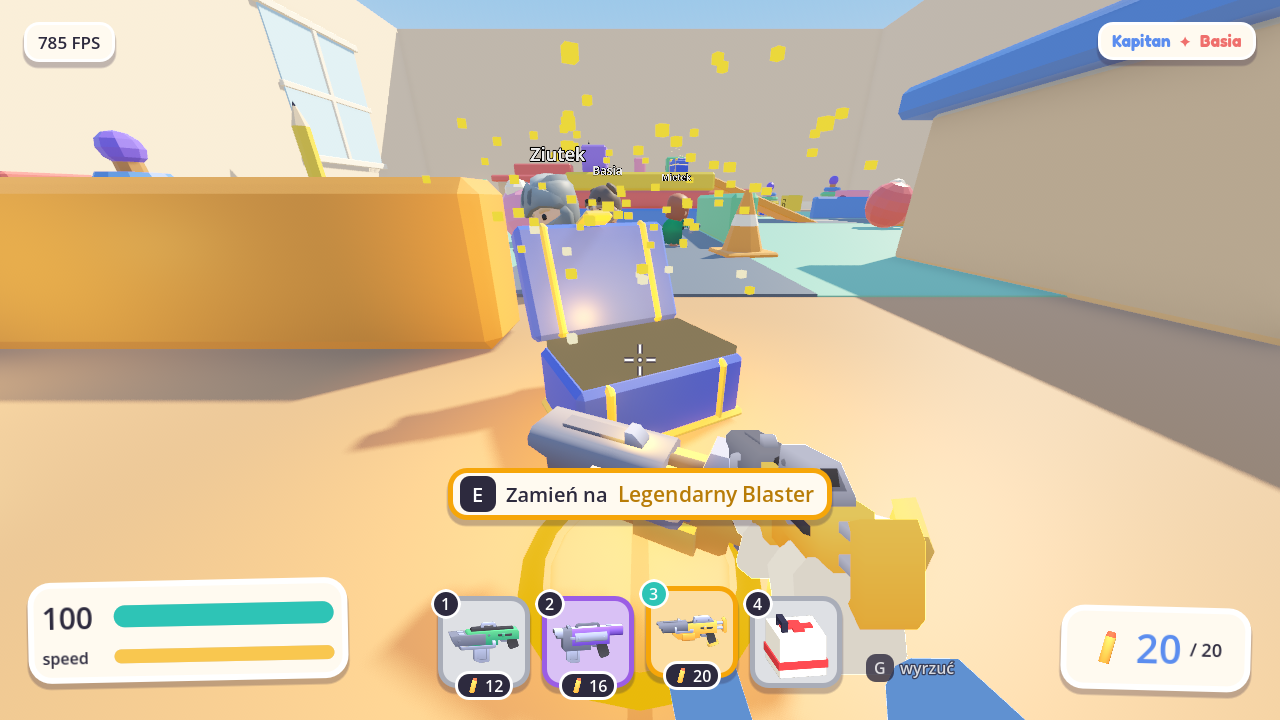
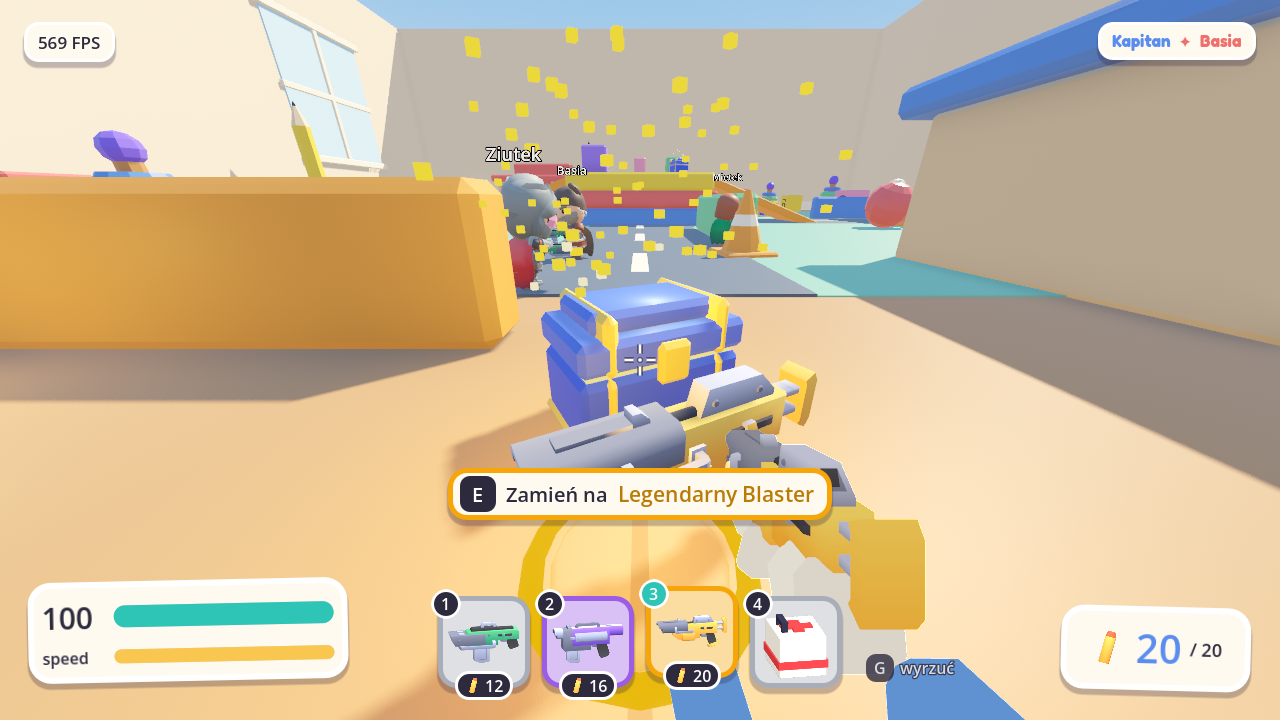
Add aiming on the right mouse button
Holding the right button raises the weapon to the center of the screen,
zooms the view and lowers recoil, at the cost of slower movement and no
sprint. Reloading pauses it. Better weapons zoom further, and aiming has
its own sensitivity setting, matched to the zoom by default.

diff --git a/README.md b/README.md
@@ -4,9 +4,9 @@ Kolorowa strzelanka FPS multiplayer, w której gracze walczą jako małe figurki
 
 ![Rozgrywka](docs/screenshots/gameplay.png)
 
-| Skrzynka | Bronie na ziemi |
-|---|---|
-| ![Otwieranie skrzynki](docs/screenshots/chest_open.png) | ![Bronie na ziemi](docs/screenshots/loot.png) |
+| Skrzynka | Bronie na ziemi | Celowanie |
+|---|---|---|
+| ![Otwieranie skrzynki](docs/screenshots/chest_open.png) | ![Bronie na ziemi](docs/screenshots/loot.png) | ![Celowanie](docs/screenshots/aim.png) |
 
 | Menu | Wyniki | Obrażenia |
 |---|---|---|
@@ -20,6 +20,7 @@ Kolorowa strzelanka FPS multiplayer, w której gracze walczą jako małe figurki
 - **Skrzynki z łupem:** rozsiane po mapie, otwierane przez przytrzymanie klawisza. Losują broń z szansą 70% na zwykłą, 25% na epicką i 5% na legendarną, a po minucie wracają.
 - **Podnoszenie i wyrzucanie:** bronie leżą na ziemi, a po śmierci wypadają dla innych.
 - **Apteczki:** wypadają ze skrzynek obok broni, a przytrzymanie strzału przez 2,5 s leczy o 50 punktów.
+- **Celowanie:** prawy przycisk przybliża widok i zmniejsza odrzut, ale spowalnia ruch. Lepsza broń ma mocniejsze przybliżenie.
 - **Sprint z limitem:** pasek zużywa się w biegu i odnawia po chwili odpoczynku.
 - **Pokój zabawek:** mapa z książek, klocków, ołówków i piłek, animowane postacie i interfejs w stylu naklejek.
 - **Czytelna walka:** kierunek trafienia, znaczniki trafień, lista zabójstw i tabela wyników z pingiem.
@@ -40,6 +41,7 @@ W menu wpisz adres serwera i kliknij **Dołącz** albo wybierz **Hostuj na tym k
 | **WASD** | Ruch |
 | **Mysz** | Celowanie |
 | **LPM** | Strzał, przytrzymanie używa apteczki |
+| **PPM** | Celowanie (przytrzymaj) |
 | **R** | Przeładowanie |
 | **Shift** | Sprint |
 | **Spacja** | Skok |

diff --git a/docs/DEVELOPMENT.md b/docs/DEVELOPMENT.md
@@ -34,7 +34,7 @@ Po zmianie sieci podnieś `PROTOCOL_VERSION` w `scripts/core/net.gd`.
 
 ## Testy
 
-Testy to skrypty w `tools/`, uruchamiane parametrem `-- --tool=res://tools/NAZWA.gd`: `items_test`, `hitscan_test` (bez okna), `inventory_test`, `pickup_test`, `medkit_test`, `feel_test`, `flow_test`, `chest_test` z `--debug-chests`, `settings_test` z `--settings-path=user://test_settings.cfg` (w oknie). `tools/bot_test.sh`, `tools/hit_test.sh` i `tools/loot_test.sh` i `tools/chest_test.sh` sprawdzają sieć z botami, a `tools/lag_proxy.py` dodaje opóźnienie i utratę pakietów.
+Testy to skrypty w `tools/`, uruchamiane parametrem `-- --tool=res://tools/NAZWA.gd`: `items_test`, `hitscan_test` (bez okna), `inventory_test`, `pickup_test`, `aim_test`, `medkit_test`, `feel_test`, `flow_test`, `chest_test` z `--debug-chests`, `settings_test` z `--settings-path=user://test_settings.cfg` (w oknie). `tools/bot_test.sh`, `tools/hit_test.sh` i `tools/loot_test.sh` i `tools/chest_test.sh` sprawdzają sieć z botami, a `tools/lag_proxy.py` dodaje opóźnienie i utratę pakietów.
 
 ## Zasoby wizualne
 
